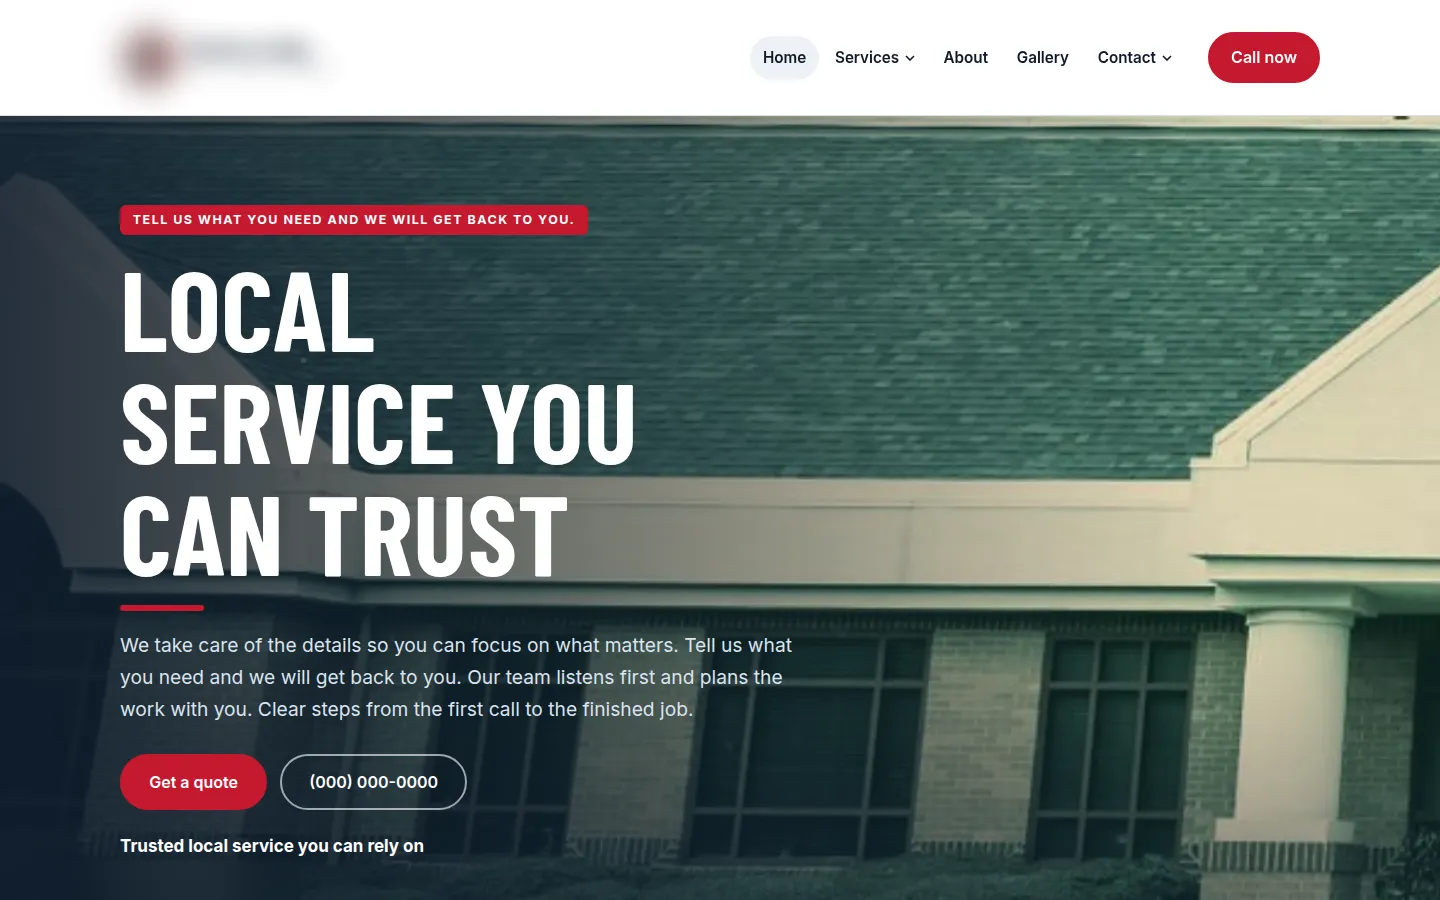
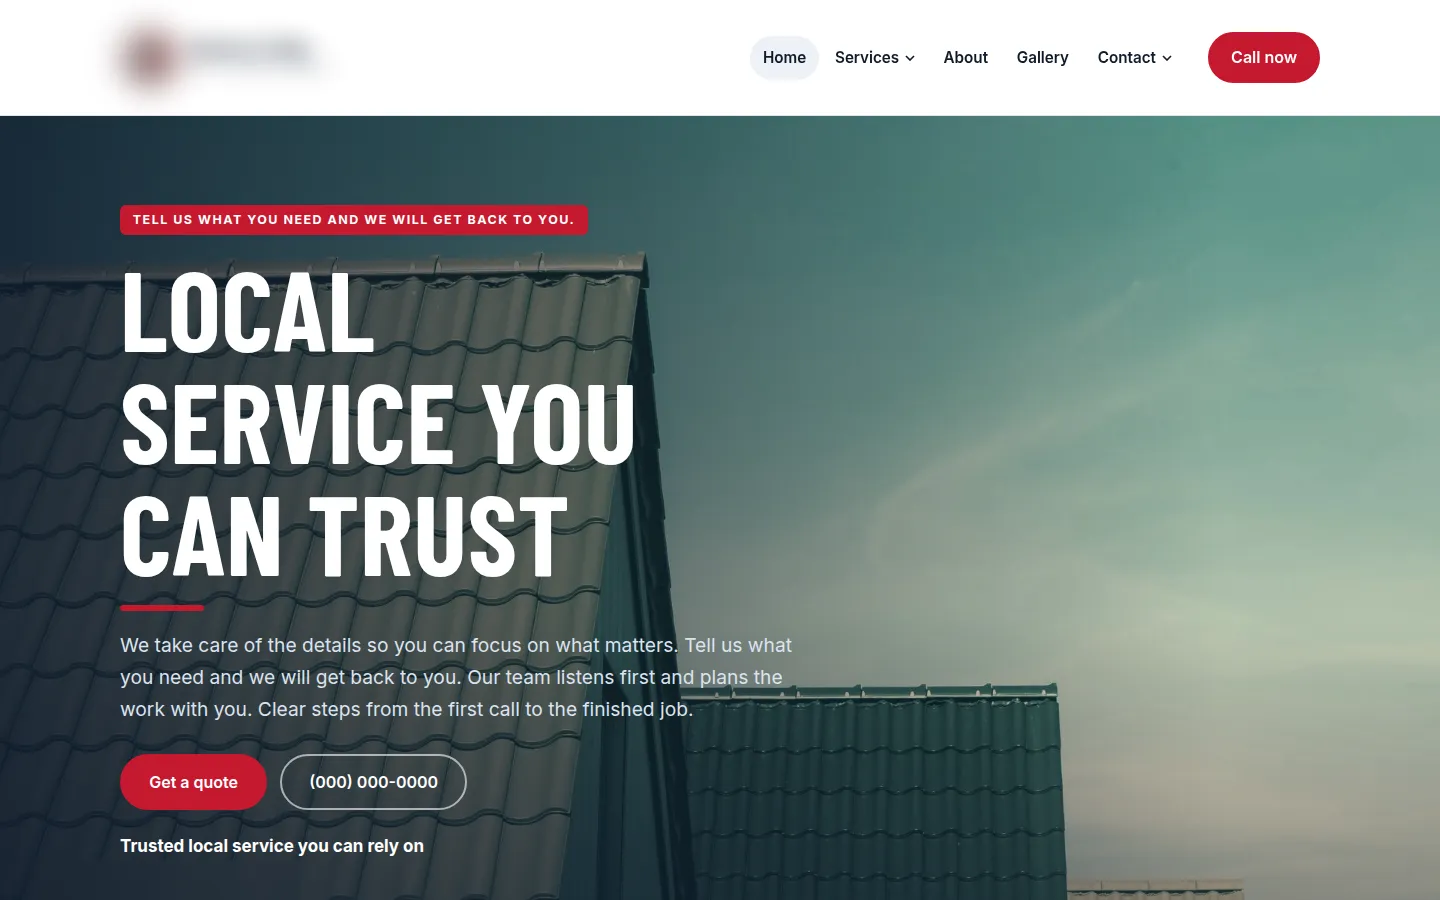
Ilustracne fotky z Pexels v ukazkach pred/po, poznamka upravena

diff --git a/cz/index.html b/cz/index.html
@@ -41,7 +41,7 @@
 <section id="work"><div class="wrap">
 <div class="sec-h rv"><div><span class="kick">Ukázky</span><h2>Weby místních firem, přestavěné.</h2></div><p>Každá dvojice ukazuje původní web a návrh, který jsem postavil z jeho obsahu.</p></div>
 <div class="bigcase rv"><div class="cmp" style="--p:71%"><div class="cmp-i cmp-b"><span class="tag">Před</span><img src="../img/roof1-before-700.webp" srcset="../img/roof1-before-700.webp 720w,../img/roof1-before.webp 1440w" sizes="100vw" width="1440" height="900" alt="Před a po, místní firma na střechy (anonymizováno)" loading="lazy" decoding="async"></div><div class="cmp-i cmp-a"><span class="tag t2">Po</span><img src="../img/roof1-after-700.webp" srcset="../img/roof1-after-700.webp 720w,../img/roof1-after.webp 1440w" sizes="100vw" width="1440" height="900" alt="Před a po, místní firma na střechy (anonymizováno)" loading="lazy" decoding="async"></div><div class="cmp-h" aria-hidden="true"><span><svg viewBox="0 0 24 24"><path d="m9 6-6 6 6 6M15 6l6 6-6 6"/></svg></span></div><input class="cmp-r" type="range" min="0" max="100" value="71" aria-label="Tažením porovnáte před a po"></div><div class="wrap"><div class="cap"><h3>Z přeplněné stránky jasná žádost o odhad</h3><p>Služby, ocenění a žádost o odhad ve srozumitelném pořadí, tlačítko pro zavolání na každé obrazovce.</p></div></div></div><div class="smalls"><article class="sm-c rv"><div class="duo"><figure><span class="tag">Před</span><img src="../img/dental-before-700.webp" srcset="../img/dental-before-700.webp 720w,../img/dental-before.webp 1440w" sizes="(min-width:900px) 45vw,100vw" width="1440" height="900" alt="Před a po, místní zubní ordinace (anonymizováno)" loading="lazy" decoding="async"></figure><figure><span class="tag t2">Po</span><img src="../img/dental-after-700.webp" srcset="../img/dental-after-700.webp 720w,../img/dental-after.webp 1440w" sizes="(min-width:900px) 45vw,100vw" width="1440" height="900" alt="Před a po, místní zubní ordinace (anonymizováno)" loading="lazy" decoding="async"></figure></div><div class="cap"><h3>Klidnější stránka pro vytíženou ordinaci</h3><p>Tlačítka pro zavolání a objednání hned nahoře, galerie zůstala a lépe se prohlíží.</p></div></article><article class="sm-c rv"><div class="duo"><figure><span class="tag">Před</span><img src="../img/roof2-before-700.webp" srcset="../img/roof2-before-700.webp 720w,../img/roof2-before.webp 1440w" sizes="(min-width:900px) 45vw,100vw" width="1440" height="900" alt="Před a po, místní firma na střechy (anonymizováno)" loading="lazy" decoding="async"></figure><figure><span class="tag t2">Po</span><img src="../img/roof2-after-700.webp" srcset="../img/roof2-after-700.webp 720w,../img/roof2-after.webp 1440w" sizes="(min-width:900px) 45vw,100vw" width="1440" height="900" alt="Před a po, místní firma na střechy (anonymizováno)" loading="lazy" decoding="async"></figure></div><div class="cap"><h3>Méně slov, větší tlačítko pro zavolání</h3><p>Jedno jasné sdělení, viditelné tlačítko pro zavolání a služby v přehledné mřížce.</p></div></article></div>
-<p class="note rv"><svg class="i" viewBox="0 0 24 24" aria-hidden="true"><circle cx="12" cy="12" r="10"/><path d="M12 16v-4M12 8h.01"/></svg><span>Jde o anonymizované ukázky mých konceptů. Texty, nadpisy, názvy, loga i telefonní čísla jsou nahrazené a fotky pocházejí z ukázkových konceptů. Jsou to ukázkové návrhy z vlastní iniciativy, ne živé weby klientů.</span></p>
+<p class="note rv"><svg class="i" viewBox="0 0 24 24" aria-hidden="true"><circle cx="12" cy="12" r="10"/><path d="M12 16v-4M12 8h.01"/></svg><span>Jde o anonymizované ukázky mých konceptů. Texty, nadpisy, názvy, loga i telefonní čísla jsou nahrazené a fotky jsou ilustrační (Pexels). Jsou to ukázkové návrhy z vlastní iniciativy, ne živé weby klientů.</span></p>
 </div></section>
 <section id="mobile" class="dark mf"><div class="wrap"><div class="sec-h rv"><div><span class="kick">Mobil na prvním místě</span><h2>Postavené nejdřív pro telefon.</h2></div><p>Vlevo původní web v telefonu, hustý text a tlačítko pro zavolání hluboko na stránce. Vpravo přestavba s tlačítkem pro zavolání na první obrazovce.</p></div><div class="phones rv"><figure class="phone-w"><span class="tag">Před</span><div class="phone"><img src="../img/m-roof1-before.webp" width="600" height="1298" alt="Anonymizovaný snímek webu firmy na střechy v telefonu" loading="lazy" decoding="async"></div></figure><figure class="phone-w"><span class="tag t2">Po</span><div class="phone"><img src="../img/m-roof1-after.webp" width="600" height="1298" alt="Anonymizovaný snímek webu firmy na střechy v telefonu" loading="lazy" decoding="async"></div></figure></div></div></section>
 <section id="get"><div class="wrap"><div class="sec-h rv"><div><span class="kick">Co dostanete</span><h2>Co je v ceně.</h2></div></div><ul class="gets"><li class="rv"><svg class="i" viewBox="0 0 24 24" aria-hidden="true"><path d="M20 6 9 17l-5-5"/></svg><div><h3>Návrh zdarma</h3><p>Nový web uvidíte dřív, než něco zaplatíte.</p></div></li><li class="rv"><svg class="i" viewBox="0 0 24 24" aria-hidden="true"><path d="M20 6 9 17l-5-5"/></svg><div><h3>Doména zůstává vaše</h3><p>Vždy na vaše jméno.</p></div></li><li class="rv"><svg class="i" viewBox="0 0 24 24" aria-hidden="true"><path d="M20 6 9 17l-5-5"/></svg><div><h3>Záloha 50 %, 50 % před spuštěním</h3><p>Fakturou.</p></div></li><li class="rv"><svg class="i" viewBox="0 0 24 24" aria-hidden="true"><path d="M20 6 9 17l-5-5"/></svg><div><h3>Postavené pro telefony</h3><p>Tlačítko pro zavolání na první obrazovce.</p></div></li><li class="rv"><svg class="i" viewBox="0 0 24 24" aria-hidden="true"><path d="M20 6 9 17l-5-5"/></svg><div><h3>Rychlé</h3><p>Lehké stránky, které se rychle načtou.</p></div></li><li class="rv"><svg class="i" viewBox="0 0 24 24" aria-hidden="true"><path d="M20 6 9 17l-5-5"/></svg><div><h3>Základní SEO</h3><p>V obou balíčcích.</p></div></li><li class="rv"><svg class="i" viewBox="0 0 24 24" aria-hidden="true"><path d="M20 6 9 17l-5-5"/></svg><div><h3>Správa webu, volitelná</h3><p>Hosting, zálohy a drobné úpravy, 590 Kč měsíčně.</p></div></li><li class="rv"><svg class="i" viewBox="0 0 24 24" aria-hidden="true"><path d="M20 6 9 17l-5-5"/></svg><div><h3>Jednáte přímo se mnou</h3><p>Jeden člověk od prvního návrhu po spuštění.</p></div></li></ul></div></section>

diff --git a/index.html b/index.html
@@ -41,7 +41,7 @@
 <section id="work"><div class="wrap">
 <div class="sec-h rv"><div><span class="kick">Work</span><h2>Local business sites, rebuilt.</h2></div><p>Each pair shows the original website and the mockup I built from its content.</p></div>
 <div class="bigcase rv"><div class="cmp" style="--p:71%"><div class="cmp-i cmp-b"><span class="tag">Before</span><img src="img/roof1-before-700.webp" srcset="img/roof1-before-700.webp 720w,img/roof1-before.webp 1440w" sizes="100vw" width="1440" height="900" alt="Before and after, local roofing company (anonymized)" loading="lazy" decoding="async"></div><div class="cmp-i cmp-a"><span class="tag t2">After</span><img src="img/roof1-after-700.webp" srcset="img/roof1-after-700.webp 720w,img/roof1-after.webp 1440w" sizes="100vw" width="1440" height="900" alt="Before and after, local roofing company (anonymized)" loading="lazy" decoding="async"></div><div class="cmp-h" aria-hidden="true"><span><svg viewBox="0 0 24 24"><path d="m9 6-6 6 6 6M15 6l6 6-6 6"/></svg></span></div><input class="cmp-r" type="range" min="0" max="100" value="71" aria-label="Drag to compare before and after"></div><div class="wrap"><div class="cap"><h3>Turning a busy page into a clear estimate request</h3><p>Services, awards and the estimate request in a clear order, with a call button on every screen.</p></div></div></div><div class="smalls"><article class="sm-c rv"><div class="duo"><figure><span class="tag">Before</span><img src="img/dental-before-700.webp" srcset="img/dental-before-700.webp 720w,img/dental-before.webp 1440w" sizes="(min-width:900px) 45vw,100vw" width="1440" height="900" alt="Before and after, local dental practice (anonymized)" loading="lazy" decoding="async"></figure><figure><span class="tag t2">After</span><img src="img/dental-after-700.webp" srcset="img/dental-after-700.webp 720w,img/dental-after.webp 1440w" sizes="(min-width:900px) 45vw,100vw" width="1440" height="900" alt="Before and after, local dental practice (anonymized)" loading="lazy" decoding="async"></figure></div><div class="cap"><h3>A calmer page for a busy practice</h3><p>Call and booking buttons up front, the gallery kept and easier to browse.</p></div></article><article class="sm-c rv"><div class="duo"><figure><span class="tag">Before</span><img src="img/roof2-before-700.webp" srcset="img/roof2-before-700.webp 720w,img/roof2-before.webp 1440w" sizes="(min-width:900px) 45vw,100vw" width="1440" height="900" alt="Before and after, local roofing company (anonymized)" loading="lazy" decoding="async"></figure><figure><span class="tag t2">After</span><img src="img/roof2-after-700.webp" srcset="img/roof2-after-700.webp 720w,img/roof2-after.webp 1440w" sizes="(min-width:900px) 45vw,100vw" width="1440" height="900" alt="Before and after, local roofing company (anonymized)" loading="lazy" decoding="async"></figure></div><div class="cap"><h3>Fewer words, a bigger call button</h3><p>One clear message, a visible call button and services in a clean grid.</p></div></article></div>
-<p class="note rv"><svg class="i" viewBox="0 0 24 24" aria-hidden="true"><circle cx="12" cy="12" r="10"/><path d="M12 16v-4M12 8h.01"/></svg><span>These are anonymized examples of my concepts. Texts, headings, names, logos and phone numbers are replaced, and the photos come from the sample concepts. They are concept mockups made on my own initiative, not live client sites.</span></p>
+<p class="note rv"><svg class="i" viewBox="0 0 24 24" aria-hidden="true"><circle cx="12" cy="12" r="10"/><path d="M12 16v-4M12 8h.01"/></svg><span>These are anonymized examples of my concepts. Texts, headings, names, logos and phone numbers are replaced, and the photos are illustrative stock photos (Pexels). They are concept mockups made on my own initiative, not live client sites.</span></p>
 </div></section>
 <section id="mobile" class="dark mf"><div class="wrap"><div class="sec-h rv"><div><span class="kick">Mobile first</span><h2>Built for the phone first.</h2></div><p>Left: the original on a phone, dense text and the call button far down the page. Right: the rebuild, with the call button on the first screen.</p></div><div class="phones rv"><figure class="phone-w"><span class="tag">Before</span><div class="phone"><img src="img/m-roof1-before.webp" width="600" height="1298" alt="Anonymized phone screenshot of a roofing company website" loading="lazy" decoding="async"></div></figure><figure class="phone-w"><span class="tag t2">After</span><div class="phone"><img src="img/m-roof1-after.webp" width="600" height="1298" alt="Anonymized phone screenshot of a roofing company website" loading="lazy" decoding="async"></div></figure></div></div></section>
 <section id="get"><div class="wrap"><div class="sec-h rv"><div><span class="kick">What you get</span><h2>What is included.</h2></div></div><ul class="gets"><li class="rv"><svg class="i" viewBox="0 0 24 24" aria-hidden="true"><path d="M20 6 9 17l-5-5"/></svg><div><h3>Free mockup</h3><p>You see your new site before anything is paid.</p></div></li><li class="rv"><svg class="i" viewBox="0 0 24 24" aria-hidden="true"><path d="M20 6 9 17l-5-5"/></svg><div><h3>Your domain stays yours</h3><p>It is always in your name.</p></div></li><li class="rv"><svg class="i" viewBox="0 0 24 24" aria-hidden="true"><path d="M20 6 9 17l-5-5"/></svg><div><h3>50% deposit, 50% before launch</h3><p>By payment link or invoice.</p></div></li><li class="rv"><svg class="i" viewBox="0 0 24 24" aria-hidden="true"><path d="M20 6 9 17l-5-5"/></svg><div><h3>Built for phones</h3><p>Call button on the first screen.</p></div></li><li class="rv"><svg class="i" viewBox="0 0 24 24" aria-hidden="true"><path d="M20 6 9 17l-5-5"/></svg><div><h3>Fast</h3><p>Light pages that load quickly.</p></div></li><li class="rv"><svg class="i" viewBox="0 0 24 24" aria-hidden="true"><path d="M20 6 9 17l-5-5"/></svg><div><h3>Basic SEO</h3><p>Included in both packages.</p></div></li><li class="rv"><svg class="i" viewBox="0 0 24 24" aria-hidden="true"><path d="M20 6 9 17l-5-5"/></svg><div><h3>Care plan, optional</h3><p>Hosting, backups and small edits, $79 a month.</p></div></li><li class="rv"><svg class="i" viewBox="0 0 24 24" aria-hidden="true"><path d="M20 6 9 17l-5-5"/></svg><div><h3>You deal with me directly</h3><p>One person from the first mockup to launch.</p></div></li></ul></div></section>
